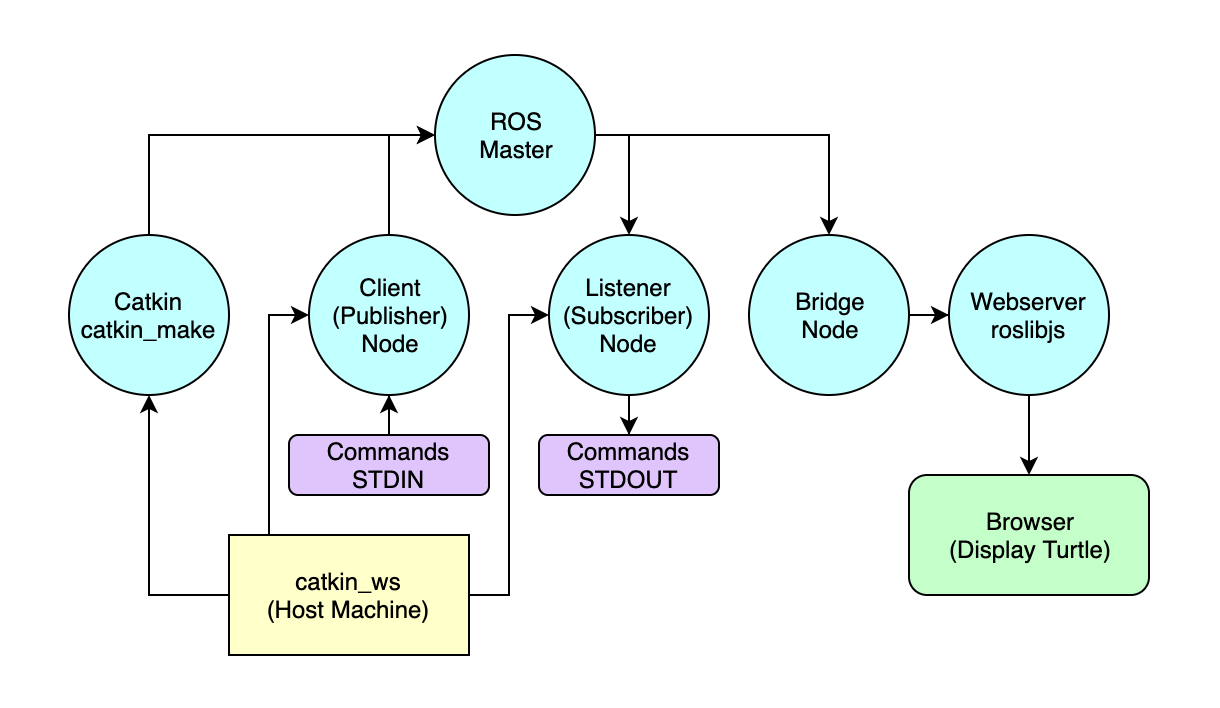
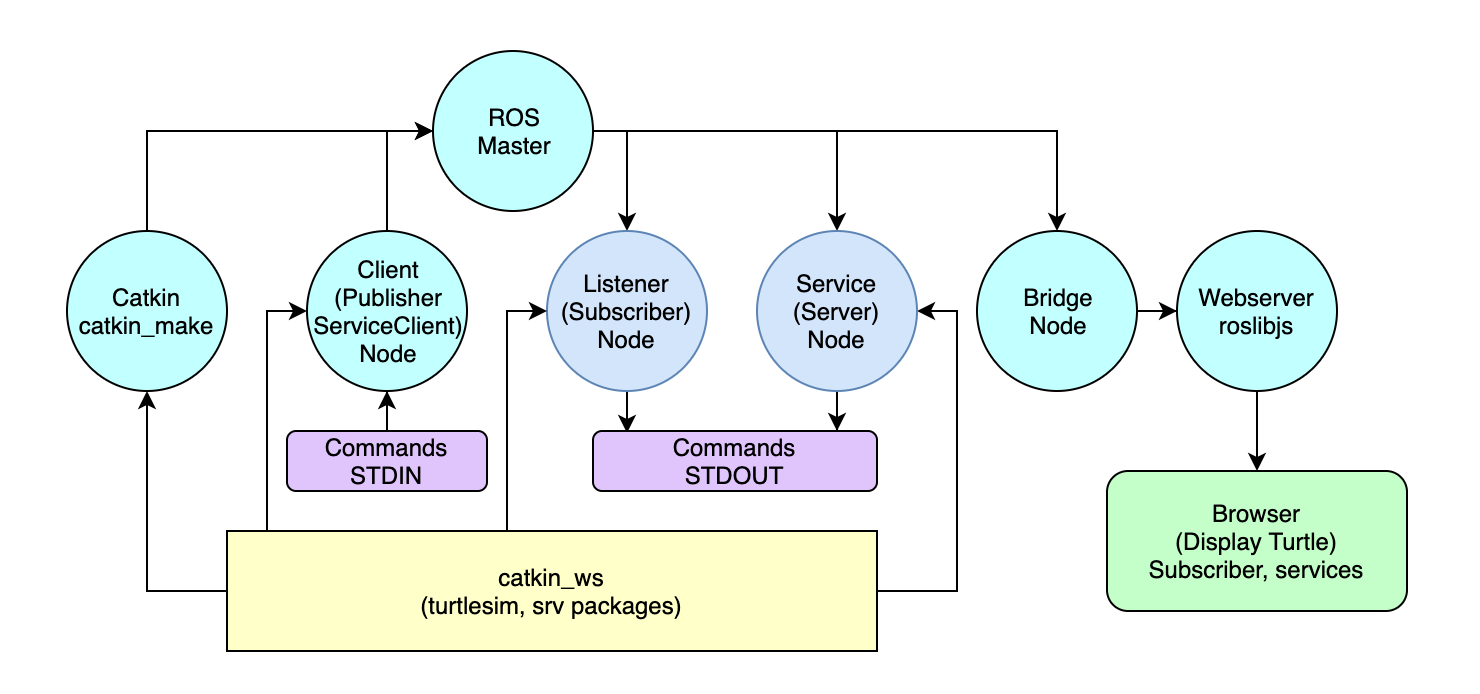
Service, parameter, launch added

Changed region(s): [[0.0311, 0.0605, 0.9656, 0.938], [0.7164, 0.696, 0.7475, 0.817], [0.8721, 0.4841, 0.9033, 0.5447]]

diff --git a/catkin_ws/src/turtlesim/scripts/turtlesim-ros-node-client.py b/catkin_ws/src/turtlesim/scripts/turtlesim-ros-node-client.py
@@ -3,44 +3,92 @@
 import termios, sys, tty
 import rospy
 from std_msgs.msg import String
+from std_msgs.srv import Empty
+from turtlesim.srv import Velocity, BgColor
 
-if __name__ == '__main__':
+class TurtlesimClient:
 
-    rospy.init_node('turtlesim_client')
-    rospy.loginfo("Turtlesim Client node has been started")
-    rospy.loginfo("Commands: ")
-    rospy.loginfo("- W: forward")
-    rospy.loginfo("- S: backward")
-    rospy.loginfo("- A: left")
-    rospy.loginfo("- D: right")
-    rospy.loginfo("- R: reset")
-    rospy.loginfo("- Q: quit")
+    def __init__(self):
+        self.rate = rospy.Rate(rospy.get_param("/rate"))
+        self.pub = rospy.Publisher("/turtlesim_commands", String, queue_size=10)
+        self.show_info()
+        self.init_stdin()
+        self.wait_services()
 
-    pub = rospy.Publisher("/turtlesim_commands", String, queue_size=10)
-    rate = rospy.Rate(2)
+        while not rospy.is_shutdown():
+            cmd = self.read_cmd()
+            self.process_cmd(cmd)
+            self.rate.sleep()
 
-    fd = sys.stdin.fileno()
-    old_settings = termios.tcgetattr(fd)
+        rospy.loginfo("Node was stopped")
 
-    cmds = ['w','s','a','d','r','q']
+    def show_info(self):
+        rospy.loginfo("""Turtlesim Client node has been started
+Commands:
+- W: forward
+- S: backward
+- A: left
+- D: right
+- R: reset
+- B: background
+- V: velocity
+- Q: quit""")
 
-    while not rospy.is_shutdown():
+    def init_stdin(self):
+        self.fd = sys.stdin.fileno()
+        self.old_stdin_settings = termios.tcgetattr(self.fd)
+
+    def wait_services(self):
+        rospy.wait_for_service("/reset")
+        rospy.wait_for_service("/velocity")
+        rospy.wait_for_service("/bg_color")
+
+    def read_cmd(self):
         try:
-            tty.setraw(fd)
+            tty.setraw(self.fd)
             cmd = sys.stdin.read(1)
         finally:
-            termios.tcsetattr(fd, termios.TCSADRAIN, old_settings)
+            termios.tcsetattr(self.fd, termios.TCSADRAIN, self.old_stdin_settings)
+        rospy.loginfo(cmd)
+        return cmd
 
-        if cmd in cmds:
-            if cmd == 'q':
-                rospy.signal_shutdown("Quit")
-            else:
-                rospy.loginfo(cmd)
-                msg = String()
-                msg.data = cmd
-                pub.publish(msg)
-                rate.sleep()
+    def process_cmd(self):
+        if cmd == 'q':
+            rospy.signal_shutdown("Quit")
+        elif cmd == 'r':
+            self.call_reset()
+        elif cmd == 'v':
+            velocity = int(raw_input('Velocity (0-100): '))
+            self.call_velocity(velocity)
+        elif cmd == 'b':
+            colors = raw_input('Colors (0-255,0-255,0-255): ')
+            self.call_bg_color(colors.split(','))
+        elif cmd in ['w','s','a','d']:
+            self.publish(cmd)
         else:
-            rospy.loginfo("Wrong command!")
+            rospy.loginfo("Wrong command")
 
-    rospy.loginfo("Node was stopped")
+    def call_reset(self):
+        self.call_service("/reset", Empty, [])
+
+    def call_velocity(self, velocity):
+        self.call_service("/velocity", Velocity, [velocity])
+
+    def call_bg_color(self, colors):
+        self.call_service("/bg_color", BgColor, colors)
+
+    def call_service(self, name, type, params):
+        try:
+            fn = rospy.ServiceProxy(name, type)
+            fn(*params)
+        except rospy.ServiceException as e:
+            rospy.logwarn("Service failed: " + str(e))
+
+    def publish(self, cmd):
+        msg = String()
+        msg.data = cmd
+        self.pub.publish(msg)
+
+if __name__ == '__main__':
+    rospy.init_node('turtlesim_client')
+    TurtlesimClient()

diff --git a/README.md b/README.md
@@ -26,17 +26,16 @@ OS: Ubuntu 18.04.3 LTS \
 ROS: melodic \
 Docker version: 19.03
 
-## First steps
-
-Create a project directory:
+## Create a project directory
 
 ```sh
 cd ~
 mkdir turtlesim
 ```
 
-Create a Docker network:
+## ROS master node
 
+First we need a private Docker network for Turtlesim:
 ```sh
 docker network create turtlesim
 ```
@@ -51,9 +50,9 @@ docker container run -dit \
     roscore
 ```
 
-## Catkin
+## Catkin Workspace
 
-Create a Catkin workspace on host computer in the project directory:
+On host computer in the project directory:
 
 ```sh
 mkdir catkin_ws
@@ -85,32 +84,205 @@ catkin_make
 
 # Devel environment setup
 source devel/setup.bash
+```
 
+## Turtlesim package
+
+```sh
 # Create package with rospy and std_msg
 cd src/
 catkin_create_pkg turtlesim rospy std_msgs
+
+# TODO - set up proper user rights
+sudo chmod -R 777 turtlesim
+mkdir scripts
 cd ..
 
 # Rebuild Catkin
 catkin_make
 ```
 
-## Client (Publisher) Node
+## Parameters with launch file
+
+Documentation: [Parameter server](http://wiki.ros.org/Parameter%20Server), [Launch](http://wiki.ros.org/roslaunch)
+
+In Catkin container:
+
+```sh
+cd ~/turtlesim/catkin_ws
+catkin_create_pkg turtlesim_init
+cd ..
+catkin_make
+cd src/turtlesim_init
+mkdir launch && cd launch
+vim turtlesim.launch
+```
+
+Edit launch file:
+
+```xml
+<launch>
+    <param name="/velocity" type="int" value="50" />
+    <param name="/bg_color_b" type="int" value="255" />
+    <param name="/bg_color_g" type="int" value="255" />
+    <param name="/bg_color_r" type="int" value="255" />
+</launch>
+```
+
+> You can also set and get params from CLI. Help: `rosparam -h`. But be aware that all params are removing when ROS master restarted.
+
+Start launch file:
+
+```sh
+roslaunch turtlesim_init tutlesim.launch
+```
+
+> Note: ROS launch also start a ROS master if it does not exist.
+
+## Service (srv) files
+
+Documentation: [ROS Services](http://wiki.ros.org/Services), [srv files](http://wiki.ros.org/srv).
+
+Create service (srv) files:
+
+```sh
+cd ~/turtlesim/catkin_ws/src/turtlesim
+mkdir srv && cd srv
+vim Velocity.srv
+vim BgColor.srv
+```
+
+Velocity.srv:
+
+```txt
+uint8 velocity
+---
+bool
+```
+
+BgColor.srv:
+
+```txt
+uint8 bg_color_b
+uint8 bg_color_g
+uint8 bg_color_r
+---
+bool
+```
+
+Primitive types: [http://wiki.ros.org/msg](http://wiki.ros.org/msg)
+
+Config package.xml and CMakeLists.txt:
+
+```sh
+cd ~/turtlesim/catkin_ws/src/turtlesim
+vim package.xml
+vim CMakeLists.txt
+```
+
+In package.xml:
+
+```xml
+<!-- Add after last <build_depend> line -->
+<build_depend>message_generation</build_depend>
+<!-- Add after last <exec_depend> line -->
+<exec_depend>message_runtime</exec_depend>
+```
+
+In CMakeLists.txt:
+
+```sh
+# Add message_generation package
+find_package(
+  # Other packages
+  message_generation
+)
+# Uncomment add_service_files and change the .srv lines
+add_service_files(
+    FILES
+    Velocity.srv
+    BgColor.srv
+)
+# Uncomment generate_messages
+generate_messages(
+  # Messages
+)
+# Uncomment the CATKIN_DEPENDS line
+catkin_package(
+  # Other packages
+  CATKIN_DEPENDS ... message_runtime
+  # Other packages
+)
+```
+
+Build service files:
+
+```sh
+cd ~/turtlesim/catkin_ws
+catkin_make
+```
+
+## Service (server) node
 
 Create node py file on the host computer in the project directory:
 
 ```sh
-cd ~/turtlesim/catkin_ws/src
-# TODO - set up proper user rights
-sudo chmod -R 777 turtlesim
-mkdir scripts
-cd scripts
+cd ~/turtlesim/catkin_ws/src/scripts
+vim turtlesim-ros-node-service.py
+```
+
+Edit: [turtlesim-ros-node-service.py](catkin_ws/src/turtlesim/scripts/turtlesim-ros-node-service.py)
+
+> Note: In ROS, nodes are uniquely named. If two nodes with the same name are launched, the previous one is kicked off. The anonymous=True flag means that rospy will choose a unique name for our node so that multiple node can run simultaneously. E.g.: `rospy.init_node('name_of_the_node', anonymous=True)` and the name will be `name_of_the_node_<random_numbers>`.
+
+Start a container for Service node:
+
+```sh
+docker container run -it \
+    --net turtlesim \
+    --env ROS_HOSTNAME=ros-turtlesim-service \
+    --env ROS_MASTER_URI=http://ros-turtlesim-master:11311 \
+    -v ~/turtlesim/catkin_ws:/root/turtlesim/catkin_ws \
+    --name ros-turtlesim-service \
+    ros:melodic-ros-base \
+    /bin/bash
+```
+
+Start the Service node:
+
+```sh
+cd /root/turtlesim/catkin_ws/src/turtlesim/scripts
+python turtlesim-ros-node-service.py
+```
+
+> TODO: Try run node with rosrun (With and without .py):
+`rosrun turtlesim turtlesim-ros-node-service.py`.
+
+List and info service server:
+
+```sh
+rosservice list
+rosservice info /bg_color
+```
+
+Call service server manually:
+
+```sh
+rosservice call /bg_color "bg_color_g: 255
+bg_color_b: 255
+bg_color_r: 255"
+```
+
+## Client (Publisher and Service client) Node
+
+Create node py file on the host computer in the project directory:
+
+```sh
+cd ~/turtlesim/catkin_ws/src/scripts
 vim turtlesim-ros-node-client.py
 ```
 
 Edit: [turtlesim-ros-node-client.py](catkin_ws/src/turtlesim/scripts/turtlesim-ros-node-client.py)
-
-> Note: In ROS, nodes are uniquely named. If two nodes with the same name are launched, the previous one is kicked off. The anonymous=True flag means that rospy will choose a unique name for our node so that multiple node can run simultaneously. E.g.: `rospy.init_node('name_of_the_node', anonymous=True)` and the name will be `name_of_the_node_<random_numbers>`.
 
 Start a container for Client node:
 
@@ -264,6 +436,24 @@ docker container run -d \
 Check the webserver: [http://<host_ip>:8084](http://localhost:8084).
 
 ![turtlesim-inprogress](turtlesim_inprogress.png)
+
+## ROS Bag
+
+You can record and replay a topic stream by [rosbag](http://wiki.ros.org/rosbag).
+
+```sh
+rosbag -h
+rosbag record /turtlesim/<topic_name>
+rosbag info <rosbag_filename>.bag
+rosbag play <rosbag_filename>.bag
+```
+
+## ROS Action
+
+In some cases, however, if the service takes a long time to execute, the user might want the ability to cancel the request during execution or get periodic feedback about how the request is progressing.
+Parts: ActionClient, ActionServer and Action. Action Specification: Goal, Feedback, Result.
+
+Further information: [actionlib](http://wiki.ros.org/actionlib).
 
 ## Troubleshooting
 
